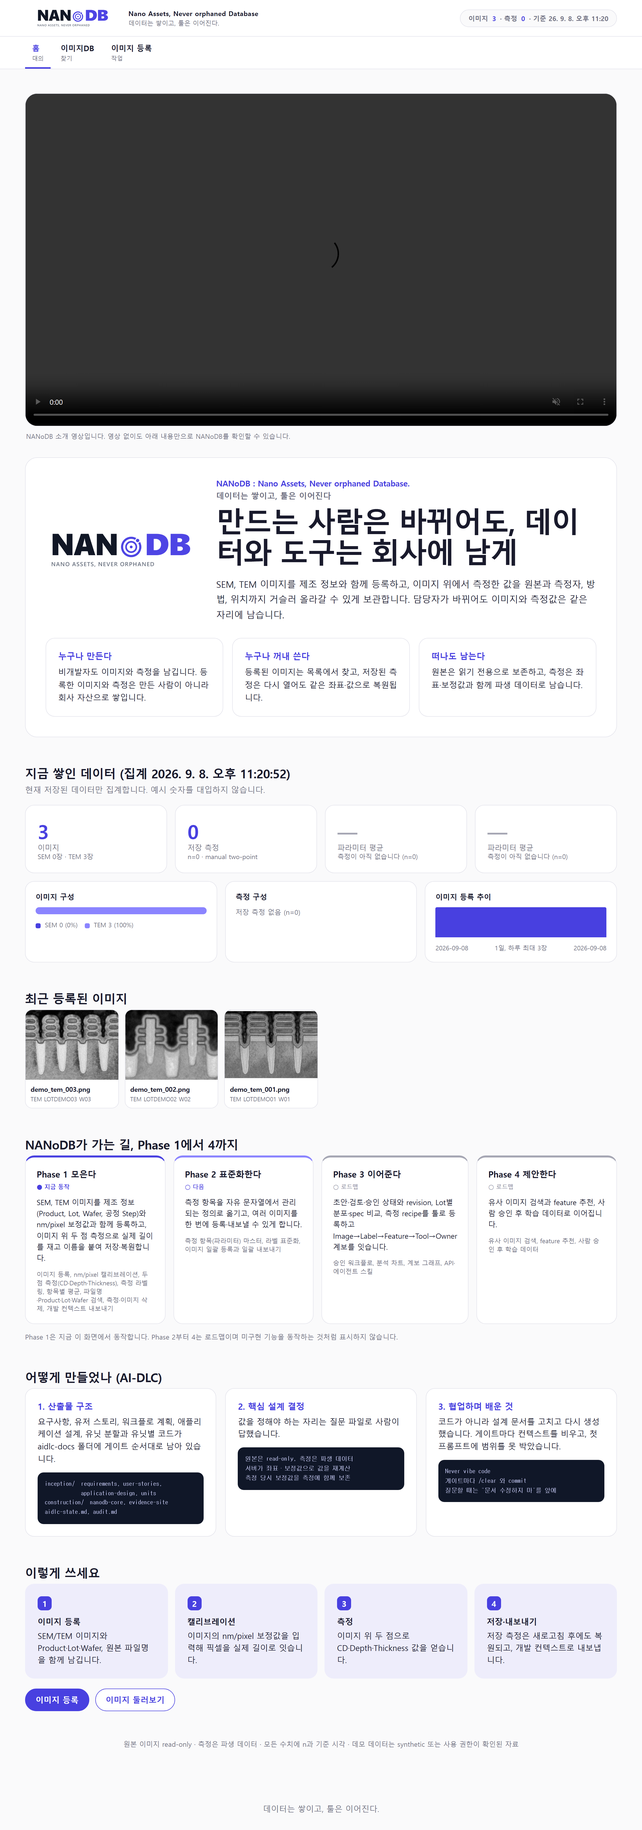
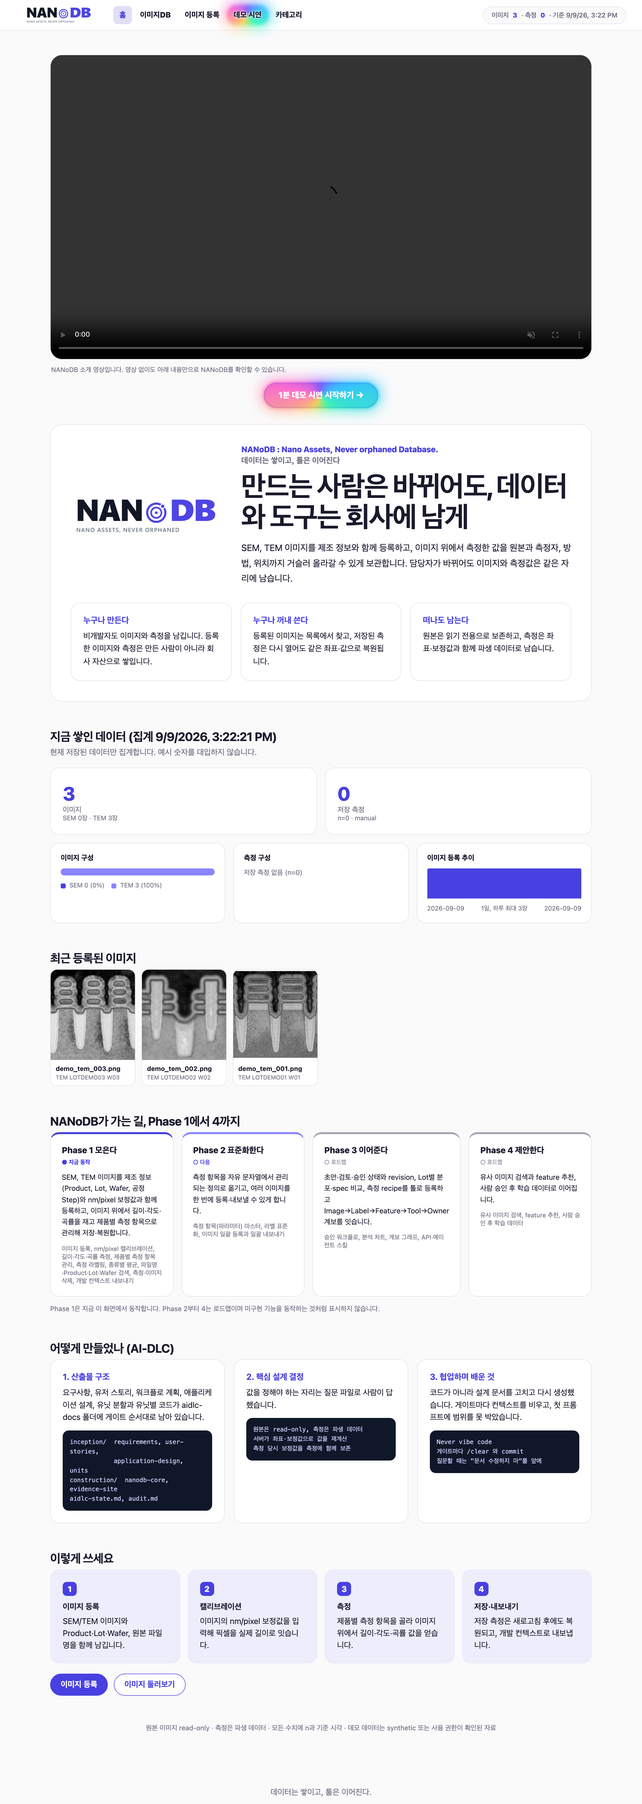
docs: clean up README, point to published dev guide, refresh screenshots
- Replace duplicated quick-start sections with a concise path and link to
  the GitHub Pages getting-started guide
- Point doc mentions (API, context export, testing/CI, architecture) at the
  published guide instead of internal aidlc-docs paths
- Re-capture screenshots for the current auto-analysis flow (segmentation +
  feature extraction); drop the stale manual-draft screenshot
- Fix stale claims: auto measurement is the shipped flow (manual disabled),
  export is API-only at schema_version 3.1

diff --git a/README.md b/README.md
@@ -16,31 +16,31 @@ NANoDB는 반도체 SEM/TEM 이미지와 측정 근거를 축적하고, 이를 A
 
 > 현재 저장소에는 MVP 요구사항, AI-DLC 워크플로우, 로고와 검증된 샘플 데이터에 더해 NANoDB Core 웹 애플리케이션(FastAPI backend, React frontend, PostgreSQL 스키마·migration, demo·검증 tooling)과 계층별 테스트가 생성되어 있습니다. 2026-09-08 기준 Docker/PostgreSQL 환경에서 컨테이너 스택 기동과 전체 게이트(backend 98 passed·skip 없음, frontend 66 passed, Playwright e2e 7 passed, lint·typecheck·preflight)를 실행해 통과했습니다.
 
-## MVP에서 보여줄 것
+> **후속 개발자를 위한 문서** — 아키텍처·백엔드·프론트엔드·데이터 모델·API·컨텍스트 내보내기·
+> 테스트/배포·확장 방법을 코드에 근거해 정리한 **[NANoDB 개발자 가이드](https://geniuskey.github.io/nanodb/guide/)** 가 있습니다.
+> 로컬 개발 환경 설정은 [개발 환경 설정](https://geniuskey.github.io/nanodb/guide/getting-started.html) 문서를 먼저 보세요.
 
-1. PNG/JPEG/TIFF 이미지를 제조 메타데이터(Product, Lot, Wafer와 선택 입력 공정 Step)와 함께 등록합니다. TIFF는 원본을 그대로 보존하고 화면 표시용 PNG 파생본을 자동으로 만듭니다.
-2. 등록된 이미지를 목록에서 검색어·SEM/TEM 필터로 찾아 다시 엽니다.
-3. 이미지 위에서 두 점을 선택하거나 원본 좌표를 직접 입력해 CD, Depth, Thickness를 측정합니다.
-4. `nm/pixel` 보정값으로 실제 길이를 계산합니다.
-5. 저장된 좌표와 측정값을 새로고침 후에도 같은 위치에 복원합니다.
-6. 측정에 이름(측정 항목 명)을 붙이면 그 측정선 옆에 캡션으로 표시됩니다. 확대·이동으로 원하는 위치를 크게 보며 점을 찍을 수 있고, 현재 배율에서 화면 1px이 원본 몇 px인지 표시됩니다.
-7. 홈에서 실제 이미지 수, 측정 수와 항목별 평균·최소·최대를 확인합니다.
-8. 선택 이미지의 명세·측정 데이터·측정 라벨·개발 요청·검증 기준을 담은 ZIP을 내보냅니다(계약 버전 2.0).
-9. 기존 AI 개발 도구에서 요약 CSV 생성 스크립트를 만들고 로컬에서 검증합니다. 이 단계는 앱 외부의 수동 개발 데모입니다.
+## 핵심 기능
 
-위 항목은 구현 목표입니다. 계측 기반을 먼저 검증한 후 개발 컨텍스트 기능을 구현하며, 두 게이트와 생성 코드 검증이 모두 통과해야 대회용 MVP 완료입니다. 수동 측정은 미검토 참고값이며 자동 계측의 정답으로 취급하지 않습니다.
+1. **이미지 등록** — PNG·JPEG·TIFF를 제조 메타데이터(Product·Lot·Wafer와 선택 입력 공정 Step)·`nm/pixel` 보정값과 함께 등록합니다. TIFF는 원본을 보존하고 화면 표시용 PNG 파생본을 만듭니다.
+2. **목록·검색** — 등록 이미지를 최신순 목록에서 키워드·종류(SEM/TEM)·Product로 찾아 다시 엽니다.
+3. **자동 분석** — 세그멘테이션(multi-Otsu)과 자동 특징 추출로 폭·높이·간격·반경·측벽각 등을 길이·각도·곡률 측정값으로 자동 생성합니다. 사람이 검증하지 않은 **미검토 참고값**으로 신뢰도와 함께 '자동'으로 구분 저장합니다.
+4. **보정·복원** — 자동 측정의 기준점을 이미지 위에서 직접 끌어 값을 재계산하고 라벨·메모를 편집합니다. 저장된 좌표·측정값은 새로고침 후에도 같은 위치에 overlay로 복원됩니다.
+5. **집계** — 홈에서 실제 이미지 수·측정 수와 항목별 표본 수·평균·최소·최대를 확인합니다.
+6. **개발 컨텍스트 내보내기** — 선택 이미지의 명세·측정·개발 과제·검증 정답을 담은 고정 네 파일 ZIP을 API로 내려받습니다(`GET /api/images/{id}/context-export`, `schema_version 3.1`).
+7. **외부 AI 검증 데모** — 내보낸 컨텍스트로 외부 AI 개발 도구에서 요약 CSV 생성 코드를 만들고 오프라인으로 검증합니다. 앱 외부의 수동 개발 데모입니다.
 
-단일 키워드 검색·종류 필터, 측정 삭제, 이미지 삭제, 항목별 표본 수·평균·최소·최대와 측정 라벨링은 P1으로 구현을 마쳤습니다.
+> 측정값은 자동 세그멘테이션·특징 추출로 생성되는 **미검토 참고값**이며, 자동 계측의 정답(ground truth)으로 취급하지 않습니다. 수동 두 점 측정 UI는 코드에 남아 있으나 현재 비활성(`MANUAL_MEASUREMENT_ENABLED = false`)이고, 저장된 자동 측정의 기준점 보정만 제공합니다.
 
 홈 최상단 소개 영상은 저장소에 포함된 로컬 파일(`assets/video/nanodb_intro.mp4`)을 재생합니다. 외부 임베드나 서드파티 스크립트를 쓰지 않으므로 **네트워크가 차단된 환경에서도 그대로 재생됩니다.** 영상은 보조 자료이므로 재생하지 않고 홈 내용만으로 진행해도 되며, 그 안내가 영상 아래에 항상 표시됩니다. 시스템에서 동작 줄이기(reduced motion)를 켠 환경에서는 자동 재생하지 않고 재생 버튼을 제공합니다.
 
-자유 윤곽(폴리곤) 라벨링과 라벨 검수, 피처 자동 추출, Tool 등록, Lineage, Report는 이번 3일 MVP의 후속 로드맵입니다.
+자유 윤곽(폴리곤) 라벨링과 라벨 검수, Tool 등록, Lineage, Report는 이번 3일 MVP의 후속 로드맵입니다.
 
 ## 시연 화면
 
 아래 화면은 로컬 PostgreSQL 16과 native uvicorn으로 앱을 실행한 뒤 승인된 demo 데이터로
-Playwright가 자동 캡처한 실제 동작 화면입니다(캡처 시각 2026-09-08, working tree
-`7a387cb`, 캡처 스크립트 [`scripts/capture_screenshots.mjs`](scripts/capture_screenshots.mjs)).
+Playwright가 자동 캡처한 실제 동작 화면입니다(캡처 시각 2026-09-09, commit
+`46b7f3a`, 캡처 스크립트 [`scripts/capture_screenshots.mjs`](scripts/capture_screenshots.mjs)).
 공개 배포된 서비스가 아니라 로컬 실행 결과이며, 비밀정보나 비공개 자료는 포함하지 않습니다.
 홈 최상단의 소개 영상은 보조 자료이며 앱 기능 근거가 아닙니다(HOM-040).
 캡처 스크립트는 `screenshots/`와 사이트용 사본 `docs/public/screenshots/`를 함께 갱신하므로
@@ -48,207 +48,62 @@ Playwright가 자동 캡처한 실제 동작 화면입니다(캡처 시각 2026-
 
 | 화면 | 대응 기능 |
 | --- | --- |
-| ![홈: 실제 이미지·측정 집계와 사용 흐름](screenshots/01-home.png) | 홈에서 실제 이미지 수·측정 수·파라미터 집계와 사용 흐름 끝의 등록·목록 CTA (MVP 7) |
-| ![이미지 목록: 최신순 카드와 측정 수](screenshots/02-catalog.png) | 등록된 이미지를 목록에서 최신순으로 찾아 다시 열기 (MVP 2) |
-| ![이미지 등록: 미리보기와 제조 메타데이터 폼](screenshots/03-register.png) | PNG/JPEG/TIFF를 제조 메타데이터·보정값과 함께 등록 (MVP 1, 4) |
-| ![측정 뷰어: 두 점 선택 draft와 실시간 preview](screenshots/04-measurement-draft.png) | 이미지 위 두 점 선택으로 CD/Depth/Thickness 측정과 preview (MVP 3, 4) |
-| ![저장 후: overlay 복원·저장 항목·context export 활성](screenshots/05-measurement-saved.png) | 저장 좌표·값의 overlay 복원과 측정이 있을 때 활성화되는 컨텍스트 ZIP 내보내기 (MVP 5, 8) |
+| ![홈: 실제 이미지·측정 집계와 사용 흐름](screenshots/01-home.png) | 홈에서 실제 이미지 수·측정 수·파라미터 집계와 사용 흐름 끝의 등록·목록 CTA (기능 5) |
+| ![이미지 목록: 최신순 카드와 측정 수](screenshots/02-catalog.png) | 등록된 이미지를 목록에서 최신순으로 찾아 다시 열기 (기능 2) |
+| ![이미지 등록: 미리보기와 제조 메타데이터 폼](screenshots/03-register.png) | PNG/JPEG/TIFF를 제조 메타데이터·보정값과 함께 등록 (기능 1) |
+| ![자동 분석: 세그멘테이션(multi-Otsu) 결과 — 클래스 맵·경계 오버레이·클래스 통계](screenshots/04-segmentation.png) | 세그멘테이션 실행 결과인 클래스 맵·경계 오버레이·클래스 통계 (기능 3) |
+| ![자동 특징 추출: 자동 측정값 overlay와 저장 목록(미검증 표기)](screenshots/05-measurement-saved.png) | 자동 특징 추출로 만든 측정값의 overlay 복원과 '자동(미검증)' 저장 목록 (기능 3, 4) |
 
-캡처는 미검토 참고값인 수동 측정을 자동 계측의 정답으로 표현하지 않습니다.
-
-## 사전 준비
-
-- Python 3.12.12 (`.python-version`으로 고정), 의존성 관리자 [`uv`](https://docs.astral.sh/uv/)
-- Node.js 22.17.1과 npm
-- PostgreSQL 16 (로컬 설치 또는 아래 Compose 스택)
-- 컨테이너 실행 시 Docker와 Docker Compose v2
-- `make`는 편의용입니다. 없으면 [5. `make` 없이 실행](#5-make-없이-실행-windows-powershell-등)의
-  대응 명령을 그대로 쓰면 되고, 별도로 설치하지 않아도 됩니다.
+캡처는 자동 세그멘테이션·특징 추출로 생성된 미검토 참고값을 자동 계측의 정답으로 표현하지 않습니다.
 
 ## 빠른 시작
 
-### 1. Clean setup과 locked install
+사전 요구사항(Python 3.12·`uv`·Node 22.17.1·PostgreSQL 16·Docker), `.env` 변수,
+네이티브·컨테이너 두 실행 경로, `make` 없이 실행(Windows PowerShell 대응표), 데모 데이터
+준비·초기화, 자주 쓰는 Makefile 타깃은 모두 코드 기준으로
+**[개발 환경 설정 가이드](https://geniuskey.github.io/nanodb/guide/getting-started.html)** 에
+정리되어 있습니다. 최단 경로만 요약하면 다음과 같습니다.
 
 ```bash
 git clone https://github.com/geniuskey/nanodb.git
 cd nanodb
-cp .env.example .env        # 필요 시 값 수정
-make install                # uv sync --frozen + npm ci
-make build-frontend         # dist/frontend 생성
+cp .env.example .env         # 필요 시 값 수정
+make install && make build-frontend
+make demo                    # 컨테이너 스택 + demo 데이터 (Docker 필요)
+# 또는 네이티브: make migrate && make dev  (로컬 PostgreSQL 16 필요)
 ```
 
-Windows PowerShell에는 `cp .env.example .env` 대신 `Copy-Item .env.example .env`를
-쓰고, `make` 대신 아래 [5. `make` 없이 실행](#5-make-없이-실행-windows-powershell-등)의
-명령을 씁니다.
-
-`.venv/`가 이미 있는데 `uv`가 `failed to remove file ... .venv\lib64`로 멈추면, 다른
-OS(컨테이너·WSL)에서 만들어진 venv가 작업 트리에 남은 것입니다. `.venv/`를 통째로 지우고
-`make install`을 다시 실행하면 됩니다. `.venv/`는 git·docker 양쪽에서 제외되므로 지워도
-안전합니다.
-
-### 2. 컨테이너 스택으로 실행 (권장)
-
-`db → migrate → app` 순서로 기동하고, migration이 성공한 뒤에만 앱이 시작됩니다.
-
-```bash
-make up                     # docker compose up --build --wait
-# 또는 demo 데이터까지 적재하고 URL 출력:
-make demo
-```
-
-`make`가 없는 환경(예: 기본 Windows)에서는 Makefile이 감싸는 명령을 그대로 실행하면
-됩니다. `make up`에 해당하는 명령은 다음 하나이고, 나머지 target은
-[5. `make` 없이 실행](#5-make-없이-실행-windows-powershell-등)의 대응표를 참고하세요.
-
-```bash
-docker compose up --build --wait
-```
-
-호스트의 5432 포트가 이미 사용 중이면 `.env`에서 `DB_PORT`를 비어 있는 포트로 바꾸고
-`DATABASE_URL`의 포트도 같이 맞춥니다. 컨테이너끼리는 Compose 네트워크의 `db:5432`로
-통신하므로 `DB_PORT` 변경은 host 쪽 접근에만 영향을 줍니다.
-
-앱은 `http://127.0.0.1:8000`(loopback)에서 제공됩니다. 이미지 바이너리는 host의
-`./var/uploads`에 bind mount되고, DB 데이터는 named volume에 유지됩니다. 스택 제어는
-`make stop`, `make down`, 파괴적 초기화는 `make clean`(DB volume 포함 제거)입니다.
-
-### 3. 네이티브로 실행
-
-로컬 PostgreSQL이 `DATABASE_URL`로 접근 가능해야 합니다.
-
-```bash
-make migrate                # alembic upgrade head
-make dev                    # uvicorn --reload on 127.0.0.1:8000
-```
-
-**주의:** 앱과 demo 스크립트는 `.env`를 읽지만(`Settings`의 `env_file`), alembic은
-`alembic/env.py`에서 프로세스 환경변수 `DATABASE_URL`만 봅니다. `.env`에만 값을 적어 두면
-alembic은 `alembic.ini`의 기본값 `127.0.0.1:5432`로 붙습니다. 위 2번 안내대로 `DB_PORT`를
-바꿨다면 migration에는 `DATABASE_URL`을 환경변수로 직접 넘겨야 합니다.
-
-```bash
-DATABASE_URL='postgresql+psycopg://nanodb:nanodb@127.0.0.1:5442/nanodb' uv run alembic upgrade head
-```
-
-컨테이너 스택의 `migrate` 서비스는 Compose가 환경변수를 직접 주입하므로 영향이 없습니다.
-
-### 4. 데모 샘플 준비·점검·안전 초기화
-
-승인된 TEM 원본에서 무리샘플 PNG 파생본을 만들고 무결성을 점검합니다. 원본
-`data/samples/`는 절대 수정하지 않습니다.
-
-```bash
-make prepare-demo           # data/demo/ 파생본·manifest 재생성 (오프라인)
-make preflight              # 파생본·manifest 오프라인 검증
-make seed-demo              # NANODB_PROFILE=demo, 실행 중 DB에 적재
-make reset                  # NANODB_PROFILE=demo, 전용 target guard 통과 시에만 초기화
-```
-
-`reset`은 `NANODB_PROFILE=demo`와 전용 `var/uploads` target guard를 통과해야만 demo DB
-행과 업로드를 known-empty 상태로 되돌리며, source sample을 대상으로 삼지 않습니다.
-저장된 측정을 먼저 지운 뒤 이미지를 지웁니다.
-
-`NANODB_PROFILE=demo cmd` 같은 앞머리 환경변수 문법은 sh 계열 셸(Git Bash, WSL, macOS,
-Linux) 전용입니다. PowerShell에서는 다음처럼 나눠서 실행합니다.
-
-```powershell
-$env:NANODB_PROFILE = 'demo'
-uv run python scripts/prepare_demo_samples.py --load
-uv run python scripts/reset_demo.py --yes
-```
-
-`prepare_demo_samples.py`는 실행할 때마다 `data/demo/manifest.csv`의 `converted_at`을
-현재 시각으로 다시 씁니다. 파생본 SHA-256은 그대로이므로, 커밋할 내용이 아니면
-`git checkout -- data/demo/manifest.csv`로 되돌립니다.
-
-### 5. `make` 없이 실행 (Windows PowerShell 등)
-
-`make`는 기본 Windows에 없습니다. 각 target은 Makefile이 감싸는 명령 그대로이므로 아래를
-직접 실행하면 결과가 같습니다. `$env:...` 줄은 PowerShell 문법이며, Git Bash/WSL/macOS/
-Linux에서는 `NANODB_PROFILE=demo <명령>`처럼 한 줄로 붙여 써도 됩니다.
-
-| `make` target | 직접 실행할 명령 |
-| --- | --- |
-| `install` | `uv sync --frozen` 그리고 `npm ci` |
-| `build-frontend` | `npm run build` |
-| `up` | `docker compose up --build --wait` |
-| `demo` | `docker compose up --build --wait` 후 아래 `seed-demo` |
-| `stop` / `down` / `clean` | `docker compose stop` / `docker compose down` / `docker compose down --volumes` |
-| `migrate` | `uv run alembic upgrade head` (위 3번의 `DATABASE_URL` 주의 참고) |
-| `dev` | `uv run uvicorn nanodb.api.app:app --reload --host 127.0.0.1 --port 8000` |
-| `prepare-demo` | `uv run python scripts/prepare_demo_samples.py` |
-| `preflight` | `uv run python scripts/preflight_demo.py` |
-| `seed-demo` | `$env:NANODB_PROFILE='demo'` 후 `uv run python scripts/prepare_demo_samples.py --load` |
-| `reset` | `$env:NANODB_PROFILE='demo'` 후 `uv run python scripts/reset_demo.py --yes` |
-| `test-backend` | `uv run pytest` |
-| `test-frontend` | `npm run test:frontend` |
-| `test-e2e` | `npm run test:e2e` |
-| `lint` | `uv run ruff check .` |
-| `typecheck` | `uv run mypy` 그리고 `npm run typecheck` |
-
-컨테이너 스택으로 demo까지 올리는 최단 경로는 다음과 같습니다.
-
-```powershell
-Copy-Item .env.example .env
-uv sync --frozen
-npm ci
-docker compose up --build --wait
-$env:NANODB_PROFILE = 'demo'
-uv run python scripts/prepare_demo_samples.py --load
-# http://127.0.0.1:8000
-```
-
-frontend는 컨테이너 이미지 안에서 build되므로 이 경로에서는 host의 `npm run build`가
-필요 없습니다. `npm ci`는 demo·테스트 tooling용입니다.
-
-이 절 전체를 2026-09-08에 Windows 11 + Docker Desktop + PowerShell/Git Bash에서 실행해
-확인했습니다: 스택 기동, demo 적재 3건, backend 98 passed, frontend 66 passed,
-Playwright e2e 7 passed, ruff·mypy·tsc green.
+앱은 `http://127.0.0.1:8000`(loopback)에서 제공됩니다. Windows(PowerShell)·`make` 없는
+환경·포트 충돌·alembic `DATABASE_URL` 주의·데모 시딩/초기화 가드 등 세부 사항은 위
+가이드에 있습니다.
 
 ## 테스트
 
 ```bash
 make test                   # backend(pytest) + frontend(vitest)
-make test-backend           # PostgreSQL integration test는 TEST_DATABASE_URL이 있을 때 실행
-make test-frontend
-make test-e2e               # Playwright 브라우저 시나리오
+make test-e2e               # Playwright 브라우저 시나리오 (실행 중인 앱 대상)
 make lint                   # ruff
 make typecheck              # mypy + tsc
 ```
 
-PostgreSQL 통합 테스트는 `TEST_DATABASE_URL`이 설정된 경우에만 실행되며, 없으면 명시적으로
-skip됩니다. 이때 **대상 데이터베이스 이름은 `_test`로 끝나야 합니다.** 통합 테스트는 스키마를
-만들고 지우므로, 이 guard가 운영·demo 데이터베이스를 실수로 겨냥하는 것을 막습니다. 이름이
-맞지 않으면 skip이 아니라 `TEST_DATABASE_URL must target a database ending in '_test'`로
-실패합니다.
-
-Compose 스택의 db에 전용 테스트 데이터베이스를 한 번 만들어 두고 씁니다.
-
-```bash
-docker compose exec db psql -U nanodb -d postgres -c "CREATE DATABASE nanodb_test"
-TEST_DATABASE_URL='postgresql+psycopg://nanodb:nanodb@127.0.0.1:5432/nanodb_test' uv run pytest
-```
-
-PowerShell에서는 `$env:TEST_DATABASE_URL`에 같은 값을 넣고 `uv run pytest`를 실행합니다.
-포트는 `.env`의 `DB_PORT`에 맞춥니다(기본 `5432`).
-
-`npm run test:e2e`는 이미 떠 있는 앱(`E2E_BASE_URL`, 기본 `http://127.0.0.1:8000`)을 대상으로
-실행되며 스택을 직접 띄우지 않습니다. e2e는 실제로 이미지와 측정을 등록하므로 실행 후
-demo 데이터가 늘어납니다. 깨끗한 시연 상태로 되돌리려면 위 4번의 `reset` 후 `seed-demo`를
-다시 실행합니다.
+PostgreSQL 통합 테스트 가드(`TEST_DATABASE_URL`, 대상 DB 이름이 `_test`로 끝나야 함)와 e2e
+대상 서버(`E2E_BASE_URL`, 기본 `http://127.0.0.1:8000`) 설정, e2e 실행 후 깨끗한 시연 상태로
+되돌리는 방법은 **[테스트·빌드·배포 가이드](https://geniuskey.github.io/nanodb/guide/testing-and-ci.html)** 를
+참고하세요.
 
 ## 컨텍스트 내보내기 (ZIP)
 
-이미지 상세에서 `GET /api/images/{id}/context-export`로 고정 네 파일 ZIP을 내려받습니다.
+`GET /api/images/{id}/context-export`로 고정 네 파일 ZIP을 내려받습니다(API 전용 — 프런트엔드
+다운로드 버튼은 없습니다).
 
 - `context.md` — 좌표계·계산 규칙·데이터 주의사항
-- `data.json` — 선택 이미지와 저장된 모든 측정. 각 측정은 자기 라벨(`label`)과 메모(`note`)를 함께 담습니다 (`schema_version` `2.0`)
+- `data.json` — 선택 이미지와 저장된 모든 측정. 각 측정은 자기 라벨(`label`)과 메모(`note`)를 함께 담습니다 (`schema_version` `3.1`)
 - `task.md` — 수행할 개발 과제
 - `checks.json` — 검증용 정답(ground truth)
 
-이미지 바이너리·절대 경로·secret은 포함하지 않으며, 자동 외부 전송도 하지 않습니다.
-측정이 하나 이상 있을 때만 export가 활성화됩니다. 상세 계약은
-[API Reference](aidlc-docs/construction/nanodb-core/code/api-reference.md)를 참고하세요.
+이미지 바이너리·절대 경로·secret은 포함하지 않으며, 자동 외부 전송도 하지 않습니다. 상세 계약은
+개발자 가이드의 [컨텍스트 내보내기](https://geniuskey.github.io/nanodb/guide/context-export.html)·[API 레퍼런스](https://geniuskey.github.io/nanodb/guide/api-reference.html)를
+참고하세요.
 
 ## 외부 AI 생성 코드 검토·실행·검증
 
@@ -280,15 +135,12 @@ CD·Depth는 같은 전사에도 우연히 일치했습니다.
 ## 알려진 제한
 
 - 인증·권한은 이번 범위 밖입니다.
-- 저장된 측정은 라벨과 메모 외에는 수정할 수 없습니다. 좌표·항목·값·보정값은 측정 근거이므로 불변이며, 잘못 찍은 측정은 삭제 후 다시 측정합니다.
-- 측정선은 이동·크기 조절할 수 없습니다. 삭제 후 다시 측정합니다. 측정과 분리된 화살표·원 도형은 제공하지 않습니다. 길이만 재는 도구가 반지름을 저장하는 도형을 그리게 하면 이 MVP가 계산하지 않는 곡률을 잰 것처럼 읽히기 때문입니다.
-- 이미지 위 클릭 외에 측정 화면의 `좌표로 직접 지정`으로 원본 좌표를 입력해 측정할 수 있습니다. 태블릿·모바일 터치 측정과 다크모드는 지원 범위가 아닙니다.
-- 자동 계측·윤곽 검출은 없습니다. 측정은 수동 두 점 방식의 미검토 참고값입니다.
+- 측정값은 자동 세그멘테이션(multi-Otsu)·특징 추출로 생성되는 **미검토 참고값**이며, 자동 계측의 정답(ground truth)으로 취급하지 않습니다. 수동 두 점 측정 UI는 코드에 남아 있으나 현재 비활성(`MANUAL_MEASUREMENT_ENABLED = false`)이고, 저장된 자동 측정의 기준점 보정만 제공합니다.
+- 저장된 측정은 라벨·메모와 자동 측정 기준점 보정 외에는 수정할 수 없습니다. 항목·값·보정값은 측정 근거이므로 불변이며, 잘못된 측정은 삭제 후 다시 분석합니다.
+- 태블릿·모바일 터치 조작과 다크모드는 지원 범위가 아닙니다.
 - 앱은 단일 호스트 로컬 파일 저장을 사용하며 multi-instance·객체 저장소·HA는 범위 밖입니다.
 - 앱 내부 AI 호출·코드 실행 기능은 없습니다.
-- 모든 게이트를 Docker/PostgreSQL 환경에서 실행·통과했습니다(2026-09-08): 컨테이너 스택 기동, backend 98 passed(PostgreSQL integration 포함, skip 없음), frontend 66 passed, Playwright e2e 7 passed, lint·typecheck green.
-- 배포·API 상세는 [deployment.md](aidlc-docs/construction/nanodb-core/code/deployment.md),
-  [api-reference.md](aidlc-docs/construction/nanodb-core/code/api-reference.md)를 참고하세요.
+- 배포·아키텍처·API 상세는 개발자 가이드의 [테스트·빌드·배포](https://geniuskey.github.io/nanodb/guide/testing-and-ci.html)·[아키텍처](https://geniuskey.github.io/nanodb/guide/architecture.html)·[API 레퍼런스](https://geniuskey.github.io/nanodb/guide/api-reference.html)를 참고하세요.
 
 ## 샘플 데이터
 
@@ -299,7 +151,7 @@ CD·Depth는 같은 전사에도 우연히 일치했습니다.
 
 각 manifest에는 안정적인 sample ID, 파일명, SHA-256, 도메인 메타데이터와 프로젝트 사용 승인 상태가 들어 있습니다. TIFF 파일은 일반 Git 바이너리로 함께 관리합니다.
 
-샘플 TIFF는 원본 데이터와 메타데이터 처리 검증용입니다. 브라우저 직접 등록 형식은 PNG/JPEG/TIFF이며, TIFF를 올리면 앱이 원본을 보존한 채 원본 픽셀 크기를 유지한 PNG 파생본을 만들어 화면에 표시합니다(리샘플링하지 않으므로 저장 좌표가 1:1로 맞습니다). 데모 사전 준비 단계에서 PNG 파생본을 미리 만들어 두는 절차도 그대로 유지하며, 리샘플링하지 않은 경우에만 manifest의 `length_nm_per_pixel`을 그대로 사용합니다. 파생본 준비·무결성 점검·데모 초기화 절차는 위 [빠른 시작](#빠른-시작)의 `make prepare-demo`, `make preflight`, `make seed-demo`, `make reset`로 실행합니다.
+샘플 TIFF는 원본 데이터와 메타데이터 처리 검증용입니다. 브라우저 직접 등록 형식은 PNG/JPEG/TIFF이며, TIFF를 올리면 앱이 원본을 보존한 채 원본 픽셀 크기를 유지한 PNG 파생본을 만들어 화면에 표시합니다(리샘플링하지 않으므로 저장 좌표가 1:1로 맞습니다). 데모 사전 준비 단계에서 PNG 파생본을 미리 만들어 두는 절차도 그대로 유지하며, 리샘플링하지 않은 경우에만 manifest의 `length_nm_per_pixel`을 그대로 사용합니다. 파생본 준비·무결성 점검·데모 초기화(`make prepare-demo`, `make preflight`, `make seed-demo`, `make reset`) 절차는 [개발 환경 설정 가이드의 데모 데이터 절](https://geniuskey.github.io/nanodb/guide/getting-started.html#데모-데이터)에 정리되어 있습니다.
 
 ### 샘플 검증
 

diff --git a/docs/guide/frontend.md b/docs/guide/frontend.md
@@ -55,7 +55,7 @@ createRoot(document.getElementById("root")!).render(
 
 측정 화면(`MeasurementPage.tsx`)의 핵심은 이미지 위에 SVG로 도형을 그리는 `MeasurementOverlay`와, 원본 픽셀↔화면 픽셀 좌표를 오가는 `coordinates.ts`입니다. 여기가 프론트엔드에서 가장 까다로운 부분이므로 좌표 모델부터 설명합니다.
 
-![측정 화면 - 그리는 중](/screenshots/04-measurement-draft.png)
+![측정 화면 - 자동 분석(세그멘테이션) 결과 오버레이](/screenshots/04-segmentation.png)
 
 ### 좌표 모델: 원본 픽셀과 화면 픽셀
 
